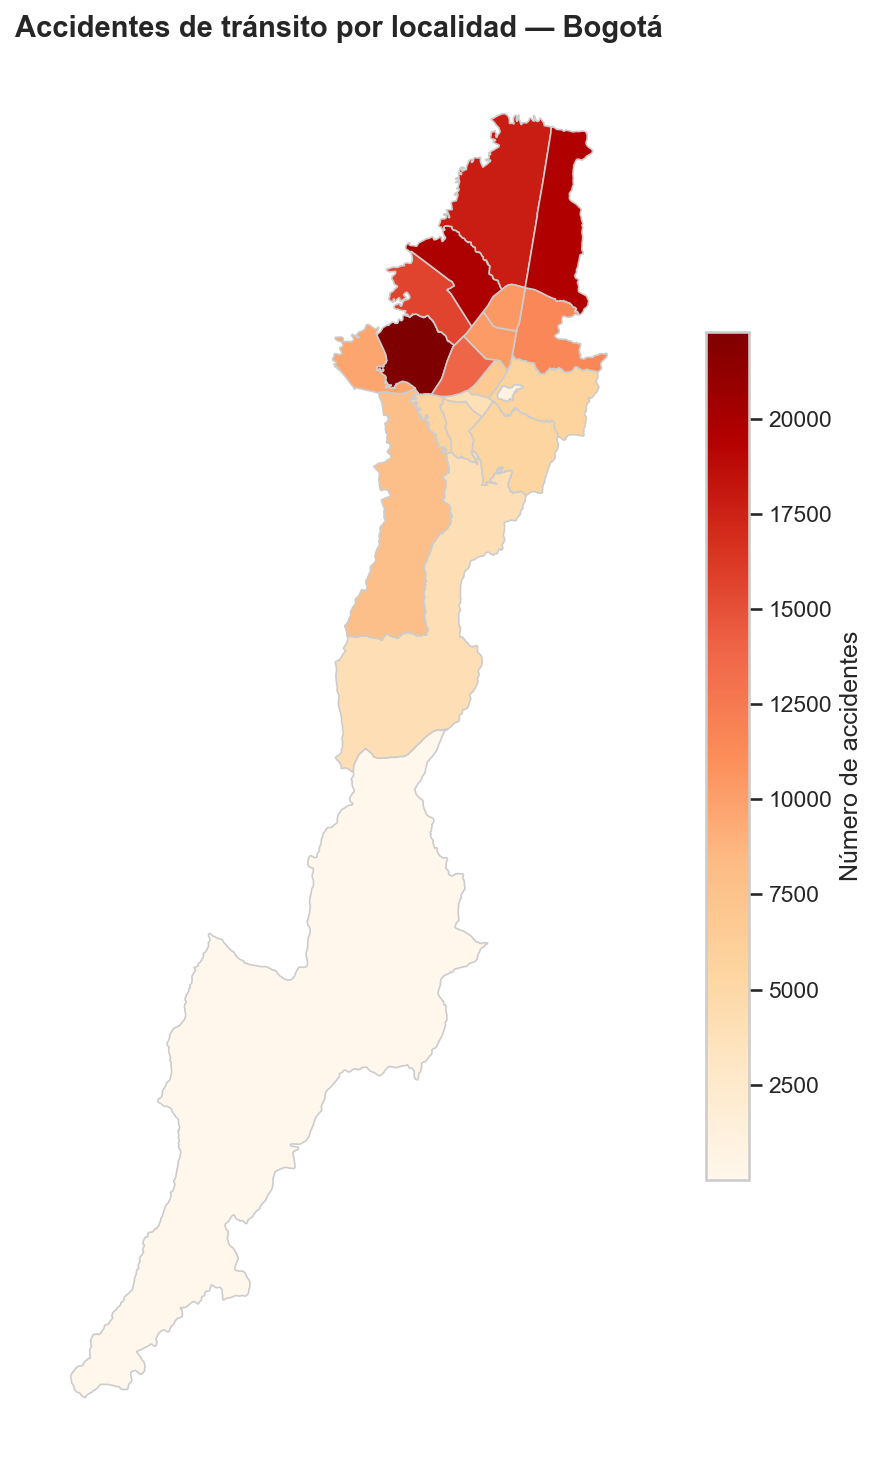
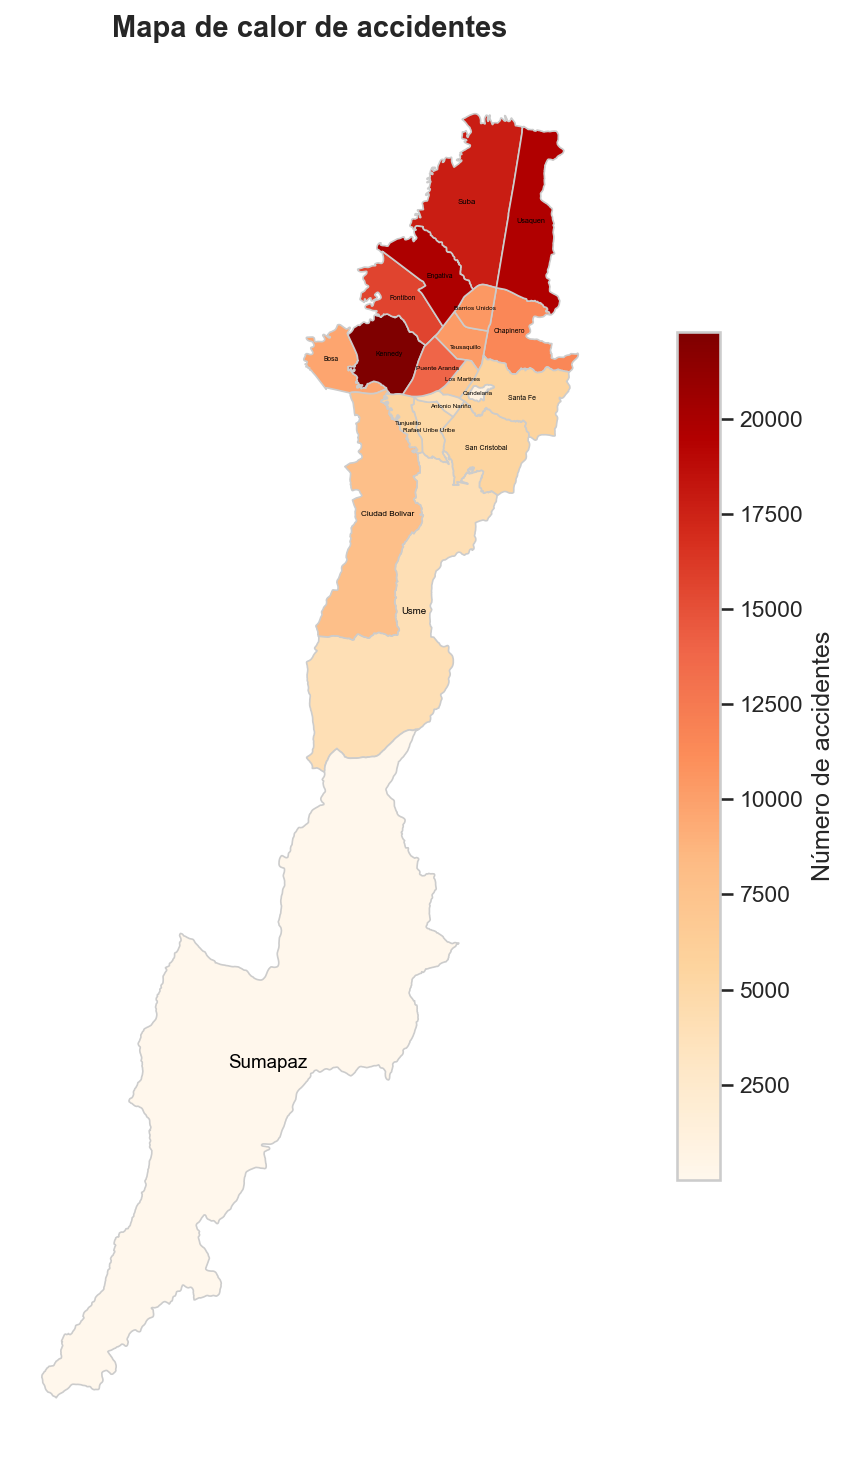
arreglos mapa

diff --git a/src/analysis/analisis_mapa_calor.py b/src/analysis/analisis_mapa_calor.py
@@ -1,17 +1,9 @@
-""" analisis_mapa_calor.py — mapa coroplético de accidentes por localidad """
 import re
 import unicodedata
-from typing import TYPE_CHECKING
 
-if TYPE_CHECKING:
-    import geopandas as gpd
-
+import geopandas as gpd
 import matplotlib.pyplot as plt
-
-try:
-    import geopandas as gpd
-except ImportError:  # pragma: no cover - dependency optional at analysis time
-    gpd = None
+import matplotlib.patheffects as path_effects
 
 from src.graficos import guardar
 from src.config import RUTA_GEOJSON_LOCALIDADES
@@ -20,9 +12,7 @@ COLUMNA_NOMBRE_GEOJSON = "Nombre de la localidad"
 
 
 def _normalizar(texto):
-    """Normaliza nombres de localidad para poder cruzar el dataset con el geojson:
-    sin tildes, en mayúsculas, sin espacios sobrantes y sin el artículo 'LA ' inicial
-    (el dataset suele decir 'La Candelaria' mientras el geojson solo dice 'Candelaria')."""
+    """ norrmaliza nombres del geojson y el dataset """
     if not isinstance(texto, str):
         return texto
     sin_tildes = unicodedata.normalize("NFKD", texto).encode("ascii", "ignore").decode("utf-8")
@@ -69,6 +59,30 @@ def _graficar_mapa(mapa, carpeta):
         legend=True,
         legend_kwds={"label": "Número de accidentes", "shrink": 0.6},
     )
-    ax.set_title("Accidentes de tránsito por localidad — Bogotá", fontsize=14, fontweight="bold")
+    ax.set_title("Mapa de calor de accidentes", fontsize=14, fontweight="bold")
     ax.axis("off")
+
+    _agregar_etiquetas(mapa, ax)
+
     guardar("mapa_calor_localidades.png", carpeta)
+
+
+def _agregar_etiquetas(mapa, ax):
+    areas = mapa.geometry.to_crs(epsg=3116).area
+    area_min, area_max = areas.min(), areas.max()
+
+    for (_, fila), area in zip(mapa.iterrows(), areas):
+        punto = fila.geometry.representative_point()
+        proporcion = (area - area_min) / (area_max - area_min) if area_max > area_min else 1
+        tamano_letra = 3 + proporcion * 6  # entre 5 (localidad más chica) y 11 (más grande)
+
+        texto = ax.text(
+            punto.x,
+            punto.y,
+            fila[COLUMNA_NOMBRE_GEOJSON].title(),
+            fontsize=tamano_letra,
+            fontweight="normal",
+            ha="center",
+            va="center",
+            color="black",
+        )

diff --git a/src/datos.py b/src/datos.py
@@ -1,7 +1,7 @@
 import pandas as pd
 
 def cargar_datos(ruta):
-    """Lee las 5 hojas del archivo y las devuelve como DataFrames separados."""
+    """ lee las 5 hojas del archivo y las devuelve como DataFrames separados """
     xls = pd.ExcelFile(ruta)
     return (
         pd.read_excel(xls, sheet_name="SINIESTROS"),
@@ -13,13 +13,13 @@ def cargar_datos(ruta):
 
 
 def _mapa_codigos(diccionario, hoja, campo):
-    """Extrae del DICCIONARIO un dict {codigo: descripcion} para una hoja/campo."""
+    """ extrae del DICCIONARIO un dict {codigo: descripcion} para una hoja/campo """
     sub = diccionario[(diccionario["HOJA"] == hoja) & (diccionario["CAMPO"] == campo)]
     return dict(zip(sub["CODIGO"], sub["DESCRIPCION"]))
 
 
 def decodificar(siniestros, vehiculos, hipotesis, diccionario):
-    """Traduce columnas codificadas a texto legible y añade columnas de fecha/hora."""
+    """ traduce columnas codificadas a texto legible y añade columnas de fecha/hora"""
     for campo in ["GRAVEDAD", "CLASE", "CHOQUE", "OBJETO_FIJO", "CODIGO_LOCALIDAD", "DISENO_LUGAR"]:
         siniestros[f"{campo}_DESC"] = siniestros[campo].map(_mapa_codigos(diccionario, "SINIESTROS", campo))
 
